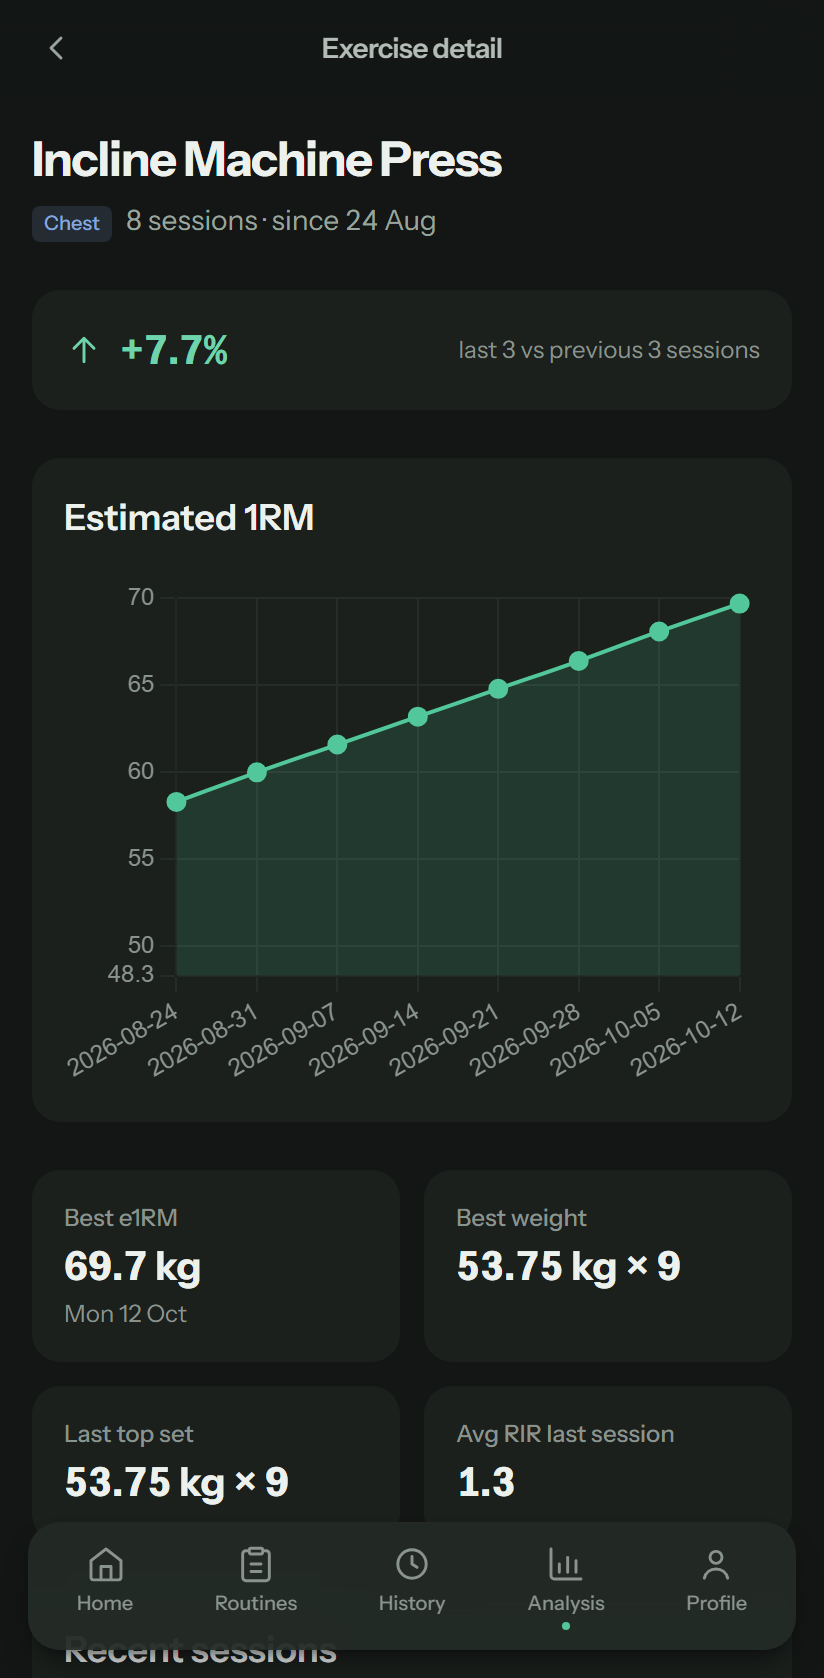
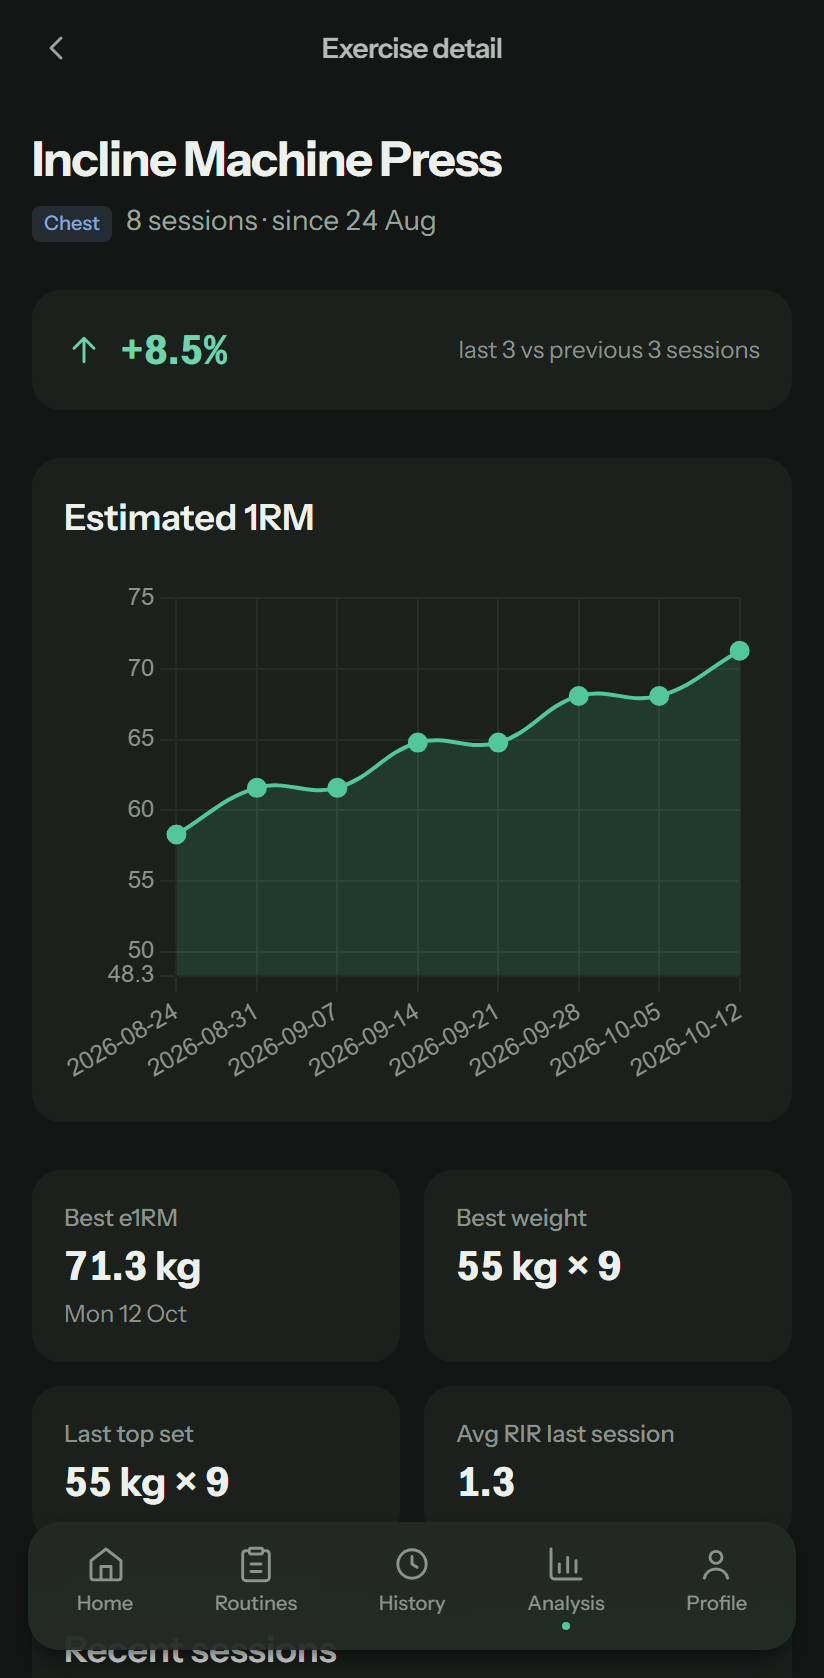
docs(screenshots): realistic load steps in the demo data, open set in view

diff --git a/e2e/screenshots/demo-history.ts b/e2e/screenshots/demo-history.ts
@@ -16,6 +16,8 @@ interface Lift {
   /** Work-set weight in week 1, and the weekly step after it */
   startKg: number;
   stepKg: number;
+  /** Load step of the machine or dumbbells: the catalog entry's weightIncrementKg */
+  incrementKg: number;
   workSets: number;
   reps: number;
   warmup?: boolean;
@@ -32,6 +34,7 @@ const DAYS: { dayType: 'push' | 'pull' | 'legs'; weekday: number; lifts: Lift[] 
         exerciseName: 'Incline Machine Press',
         startKg: 45,
         stepKg: 1.25,
+        incrementKg: 2.5,
         workSets: 3,
         reps: 9,
         warmup: true,
@@ -42,6 +45,7 @@ const DAYS: { dayType: 'push' | 'pull' | 'legs'; weekday: number; lifts: Lift[] 
         exerciseName: 'Pec Deck / Chest Fly Machine',
         startKg: 30,
         stepKg: 1.25,
+        incrementKg: 2.5,
         workSets: 3,
         reps: 12,
         restSeconds: 90,
@@ -51,6 +55,7 @@ const DAYS: { dayType: 'push' | 'pull' | 'legs'; weekday: number; lifts: Lift[] 
         exerciseName: 'Incline Bench Lateral Raises',
         startKg: 6,
         stepKg: 0.25,
+        incrementKg: 2,
         workSets: 3,
         reps: 14,
         restSeconds: 75,
@@ -60,6 +65,7 @@ const DAYS: { dayType: 'push' | 'pull' | 'legs'; weekday: number; lifts: Lift[] 
         exerciseName: 'Cable Triceps Pushdown',
         startKg: 20,
         stepKg: 0.75,
+        incrementKg: 2.5,
         workSets: 3,
         reps: 12,
         restSeconds: 75,
@@ -75,6 +81,7 @@ const DAYS: { dayType: 'push' | 'pull' | 'legs'; weekday: number; lifts: Lift[] 
         exerciseName: 'Lat Pulldown (bar & straps, wide pronated grip)',
         startKg: 50,
         stepKg: 1.25,
+        incrementKg: 2.5,
         workSets: 3,
         reps: 10,
         warmup: true,
@@ -85,6 +92,7 @@ const DAYS: { dayType: 'push' | 'pull' | 'legs'; weekday: number; lifts: Lift[] 
         exerciseName: 'T-Bar Row (neutral shoulder-width grip)',
         startKg: 35,
         stepKg: 1.25,
+        incrementKg: 2.5,
         workSets: 3,
         reps: 10,
         restSeconds: 120,
@@ -94,6 +102,7 @@ const DAYS: { dayType: 'push' | 'pull' | 'legs'; weekday: number; lifts: Lift[] 
         exerciseName: 'Incline Bench Biceps Curl',
         startKg: 10,
         stepKg: 0.25,
+        incrementKg: 2,
         workSets: 3,
         reps: 11,
         restSeconds: 75,
@@ -103,6 +112,7 @@ const DAYS: { dayType: 'push' | 'pull' | 'legs'; weekday: number; lifts: Lift[] 
         exerciseName: 'Rear Delt Fly',
         startKg: 25,
         stepKg: 0.75,
+        incrementKg: 2.5,
         workSets: 3,
         reps: 14,
         restSeconds: 60,
@@ -118,6 +128,7 @@ const DAYS: { dayType: 'push' | 'pull' | 'legs'; weekday: number; lifts: Lift[] 
         exerciseName: 'Machine Hack Squat',
         startKg: 60,
         stepKg: 2.5,
+        incrementKg: 5,
         workSets: 3,
         reps: 8,
         warmup: true,
@@ -128,6 +139,7 @@ const DAYS: { dayType: 'push' | 'pull' | 'legs'; weekday: number; lifts: Lift[] 
         exerciseName: 'Seated Leg Curl',
         startKg: 35,
         stepKg: 1.25,
+        incrementKg: 2.5,
         workSets: 3,
         reps: 11,
         restSeconds: 90,
@@ -137,6 +149,7 @@ const DAYS: { dayType: 'push' | 'pull' | 'legs'; weekday: number; lifts: Lift[] 
         exerciseName: 'Hip Thrust',
         startKg: 70,
         stepKg: 2.5,
+        incrementKg: 2.5,
         workSets: 3,
         reps: 10,
         restSeconds: 120,
@@ -146,6 +159,7 @@ const DAYS: { dayType: 'push' | 'pull' | 'legs'; weekday: number; lifts: Lift[] 
         exerciseName: 'Standing Machine Calf Raise',
         startKg: 50,
         stepKg: 1.25,
+        incrementKg: 2.5,
         workSets: 2,
         reps: 14,
         restSeconds: 60,
@@ -154,17 +168,17 @@ const DAYS: { dayType: 'push' | 'pull' | 'legs'; weekday: number; lifts: Lift[] 
   },
 ];
 
-/** Round to the 1.25 kg plates the progression engine assumes */
-const plate = (kg: number) => Math.round(kg / 1.25) * 1.25;
+/** Round to a load the exercise can actually be set to (no 53.75 kg on a 2.5 kg stack) */
+const load = (kg: number, step: number) => Math.round(kg / step) * step;
 
 function setsFor(lift: Lift, week: number) {
-  const weightKg = plate(lift.startKg + lift.stepKg * week);
+  const weightKg = load(lift.startKg + lift.stepKg * week, lift.incrementKg);
   const sets = [];
   if (lift.warmup) {
     sets.push({
       setNumber: 1,
       isWarmup: true,
-      weightKg: plate(weightKg * 0.6),
+      weightKg: load(weightKg * 0.6, lift.incrementKg),
       reps: 10,
       rir: 4,
       completed: true,

diff --git a/e2e/screenshots/readme.screens.ts b/e2e/screenshots/readme.screens.ts
@@ -31,6 +31,14 @@ test('workout', async ({ page }) => {
   // Close the warm-up so the picture shows a logged set above the open ones
   await page.getByRole('button', { name: 'Set completed' }).first().click();
   await expect(page.getByRole('button', { name: 'Edit set 1' })).toBeVisible();
+  // Scroll as a user would: the open set starts just below the sticky exercise
+  // header, so its "Set completed" is not hidden under the sticky footer
+  await page.evaluate(() => {
+    const card = document.querySelector('[aria-label="Set 2 weight in kg"]')!.closest('.rounded-xl')!;
+    const header = document.querySelector('header.sticky.z-40')!;
+    const top = card.getBoundingClientRect().top - header.getBoundingClientRect().bottom - 8;
+    window.scrollTo(0, window.scrollY + top);
+  });
   await page.screenshot(shot('workout'));
 });
 
